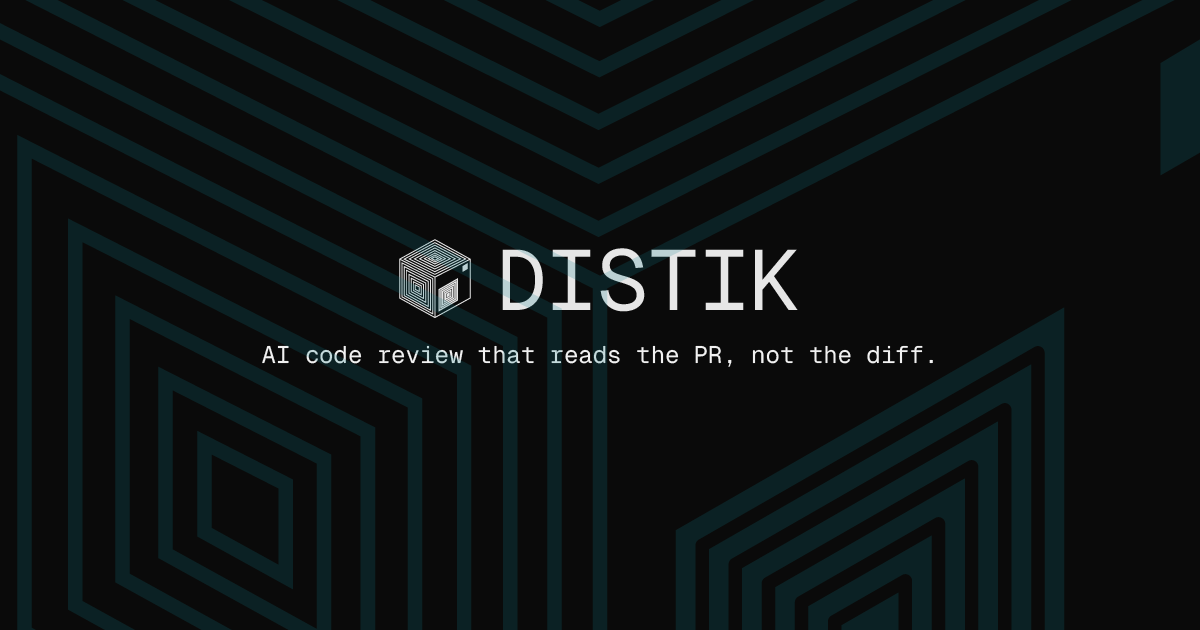
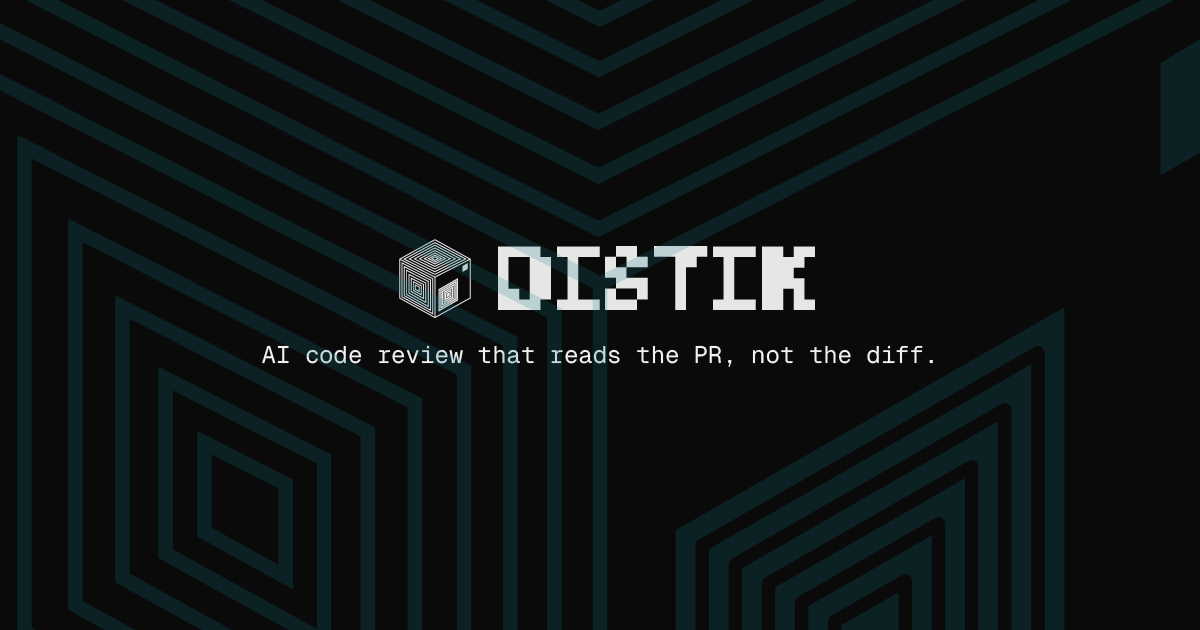
Align org profile with v1.0 positioning
Update tagline + capability bullets to match locked v1.0 positioning:
AI code review for AI-generated PRs, the 5% that breaks. Replace
"blast radius" framing with chapters / heatmap / merge confidence
band. Drop fabricated per-chapter diagrams. Add keyboard-first
capability. Normalize Twitter handle.

Changed region(s): [[0.4008, 0.3921, 0.6783, 0.5127]]

diff --git a/profile/README.md b/profile/README.md
@@ -1,11 +1,12 @@
 <p align="center">
-  <img src="./assets/hero.png" alt="Distik — see every PR's blast radius before you merge" width="100%" />
+  <img src="./assets/hero.png" alt="Distik — AI code review for AI-generated pull requests" width="100%" />
 </p>
 
 <h1 align="center">Distik</h1>
 
 <p align="center">
-  <strong>See every PR's blast radius before you merge.</strong>
+  <strong>AI code review for AI-generated pull requests.</strong><br/>
+  <em>The 5% that breaks, before you ship.</em>
 </p>
 
 <p align="center">
@@ -17,31 +18,23 @@
 
 ---
 
-Reviewing a 2,000-line AI-generated pull request by skimming a flat diff misses intent, risk, and the dependency order between changes. Distik replaces that workflow with a structured review surface — every PR is decomposed into named, dependency-ordered chapters with intent and risk, then layered with a files heatmap, per-chapter diagrams, and a single merge-confidence number so a busy reviewer can read the change at a glance.
+When AI writes the PR, the human becomes the first reader. Distik reads it first — and flags the 5% that breaks before you do. It's a reviewer-augmentation layer, not an auto-approver: you stay in the loop, Distik just makes the loop faster.
 
-Distik never trains on your code. Source diffs are sent to Anthropic for chapter generation under contractual no-training terms; structured chapter analysis is cached, raw diffs are not.
+## What you get
 
-## What's inside
-
-| | |
-|---|---|
-| **Comprehension** | A files heatmap on the Chapters tab — tile color encodes severity, tile size encodes lines changed — plus per-chapter flow, sequence, or state diagrams. Understand the shape of the change before reading a single line. |
-| **Confidence** | A 0–100 merge-confidence score with a HIGH / MEDIUM / LOW band, sitting next to the Scope heading. The reasons behind the band surface on hover. The one number a busy engineer reads. |
-| **Compounding** | Every checklist item carries a thumbs-down. Click once and the model never raises that pattern for your workspace again. Distik sharpens to your team's review taste as you train it. |
-| **Multi-VCS** | GitHub, GitLab, and Bitbucket — Cloud, Enterprise, and Self-Hosted. Reviewing happens in Distik's web app at app.distik.dev — nothing is posted back to your PR thread. |
-
-## Built for teams shipping AI-generated PRs
-
-Distik runs as a web application at [app.distik.dev](https://app.distik.dev) for engineering teams reviewing pull requests authored by Cursor, Claude Code, Copilot, and similar tools. 14-day no-card trial, then $30/seat/month or $240/seat/year.
+- **Chapters.** Every PR is decomposed into named, dependency-ordered chapters with intent, a "What to review" checklist, and the diff inline. Stream them as they finish.
+- **Files heatmap + merge confidence.** Tile color encodes severity, tile size encodes lines changed. A LOW / MEDIUM / HIGH CONFIDENCE band sits in the chapters sidebar at app.distik.dev.
+- **Mark as not useful.** Workspace-scoped. One click and the pattern stops surfacing across your whole team's future PRs.
+- **Keyboard-first.** `[` and `]` move between PR detail tabs. `g c` / `g a` / `g f` jump to Chapters, Activity, and Files changed. ⌘? opens the shortcut sheet.
 
 ## Find us
 
-- **Website** — [distik.dev](https://distik.dev)
-- **Documentation** — [docs.distik.dev](https://docs.distik.dev)
-- **App** — [app.distik.dev](https://app.distik.dev)
-- **Pricing** — [distik.dev/pricing](https://distik.dev/pricing)
-- **X / Twitter** — [@distik_dev](https://x.com/distik_dev)
+- Website — [distik.dev](https://distik.dev)
+- Docs — [docs.distik.dev](https://docs.distik.dev)
+- App — [app.distik.dev](https://app.distik.dev)
+- Pricing — [distik.dev/pricing](https://distik.dev/pricing)
+- X — [@distikdev](https://x.com/distikdev)
 
 <p align="center">
-  <sub>Distik <code>/ˈdɪs.tɪk/</code> — merge-confidence for AI-generated PRs.</sub>
+  <sub>Distik <code>/ˈdɪs.tɪk/</code> — AI code review for AI-generated pull requests.</sub>
 </p>